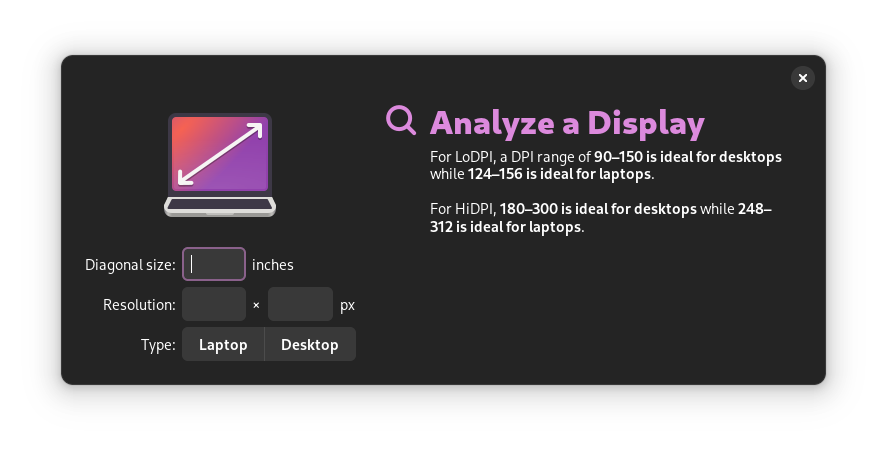
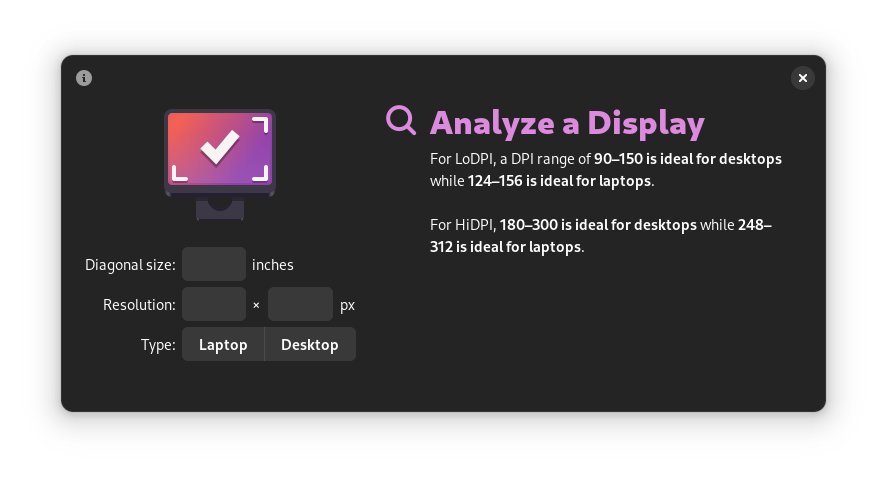
Add about dialog; bump to GNOME 43 (#107)
* Add about dialog; bump to GNOME 43

* Metainfo: Updated release data and screenshots

diff --git a/data/style.css b/data/style.css
@@ -5,6 +5,10 @@
   font-size: 225%;
 }
 
+.body {
+  line-height: 1.25;
+}
+
 .link {
   margin: 0;
   padding: 0;
